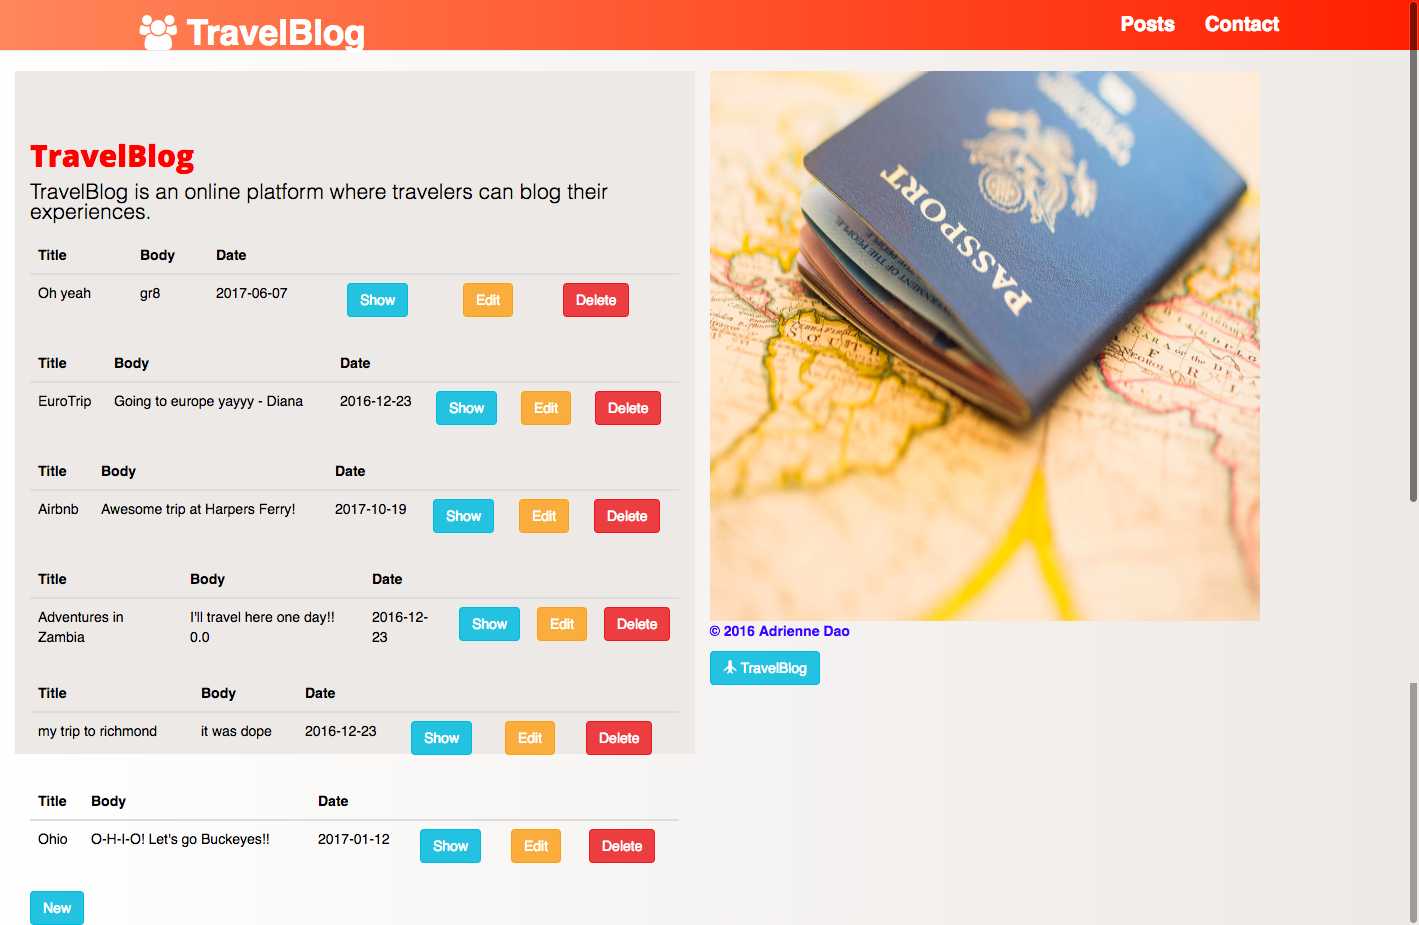
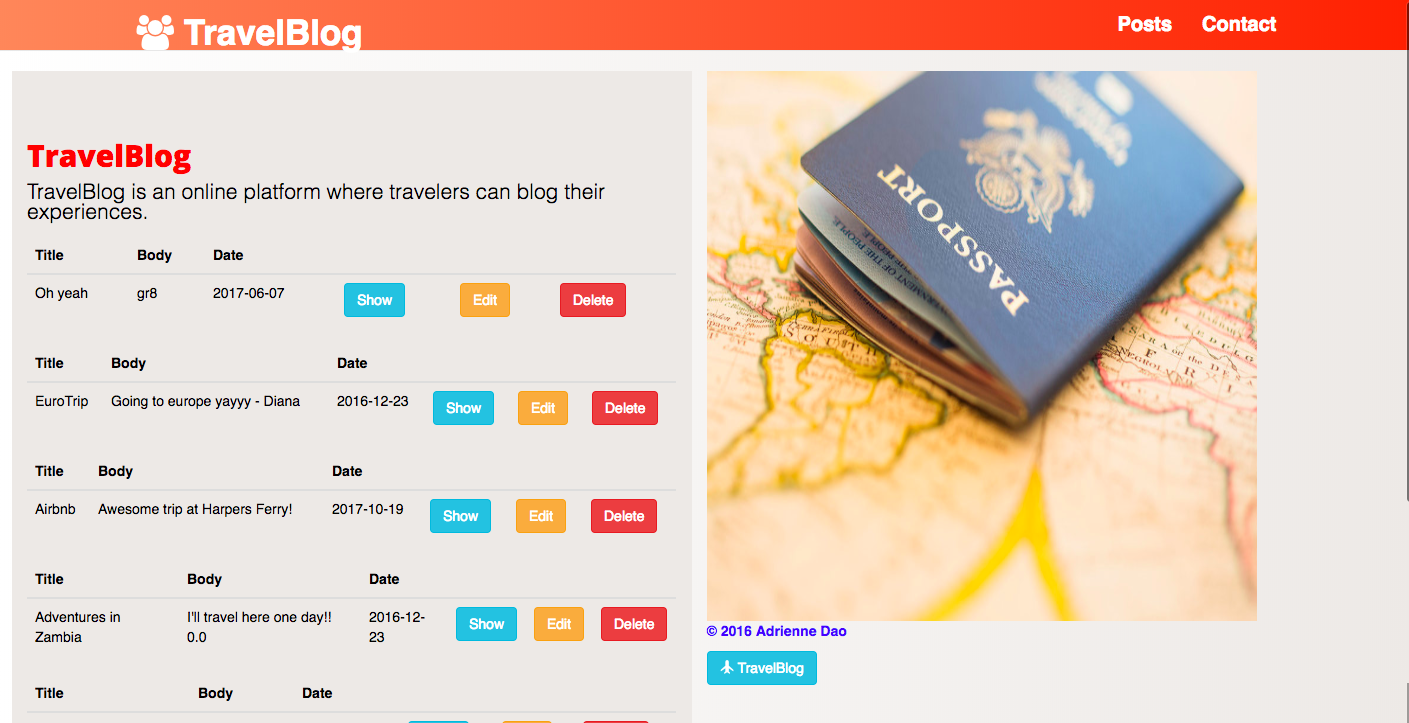
placed skills block blog and contact

diff --git a/web/themes/custom/my_project_theme/css/style.css b/web/themes/custom/my_project_theme/css/style.css
@@ -6568,7 +6568,7 @@ body {
   padding-bottom: 50px; }
 
 #block-views-block-portfolio-block-1 {
-  padding-top: 200px; }
+  padding-top: 145px; }
 
 #heading h1 {
   background-color: #e5e5e5;

diff --git a/web/themes/custom/my_project_theme/scss/_personal-project.scss b/web/themes/custom/my_project_theme/scss/_personal-project.scss
@@ -252,7 +252,7 @@ body {
 }
 
 #block-views-block-portfolio-block-1 {
-  padding-top: 200px;
+  padding-top: 145px;
 }
 
 #heading h1 {
